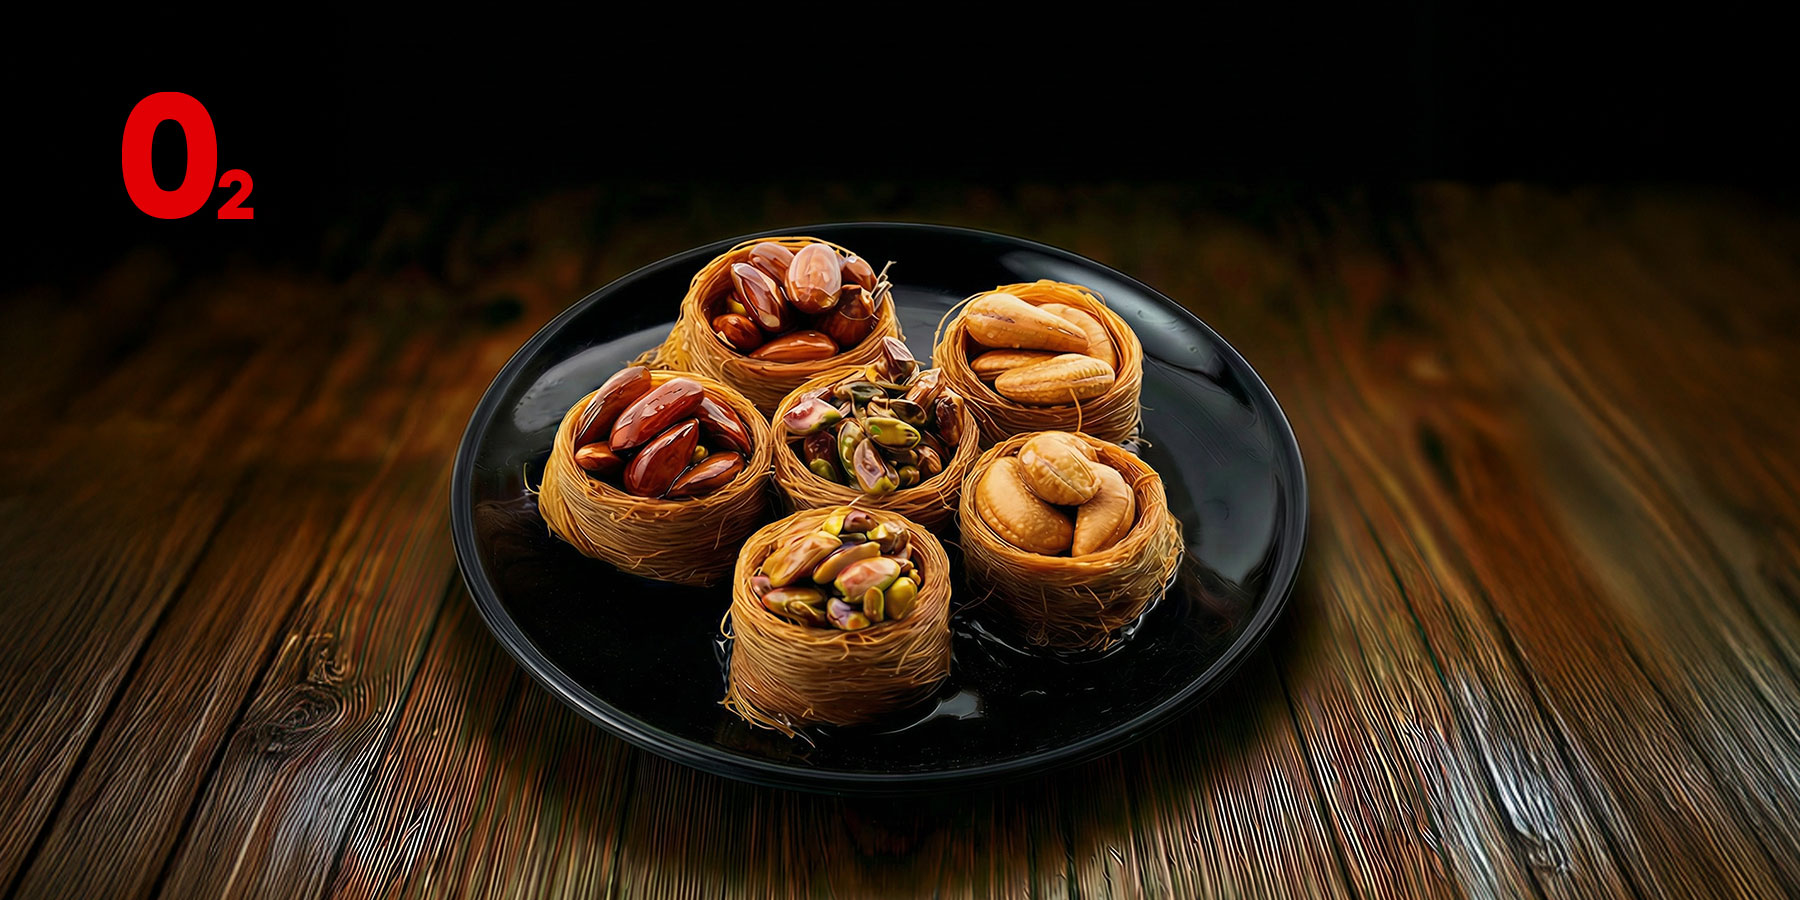
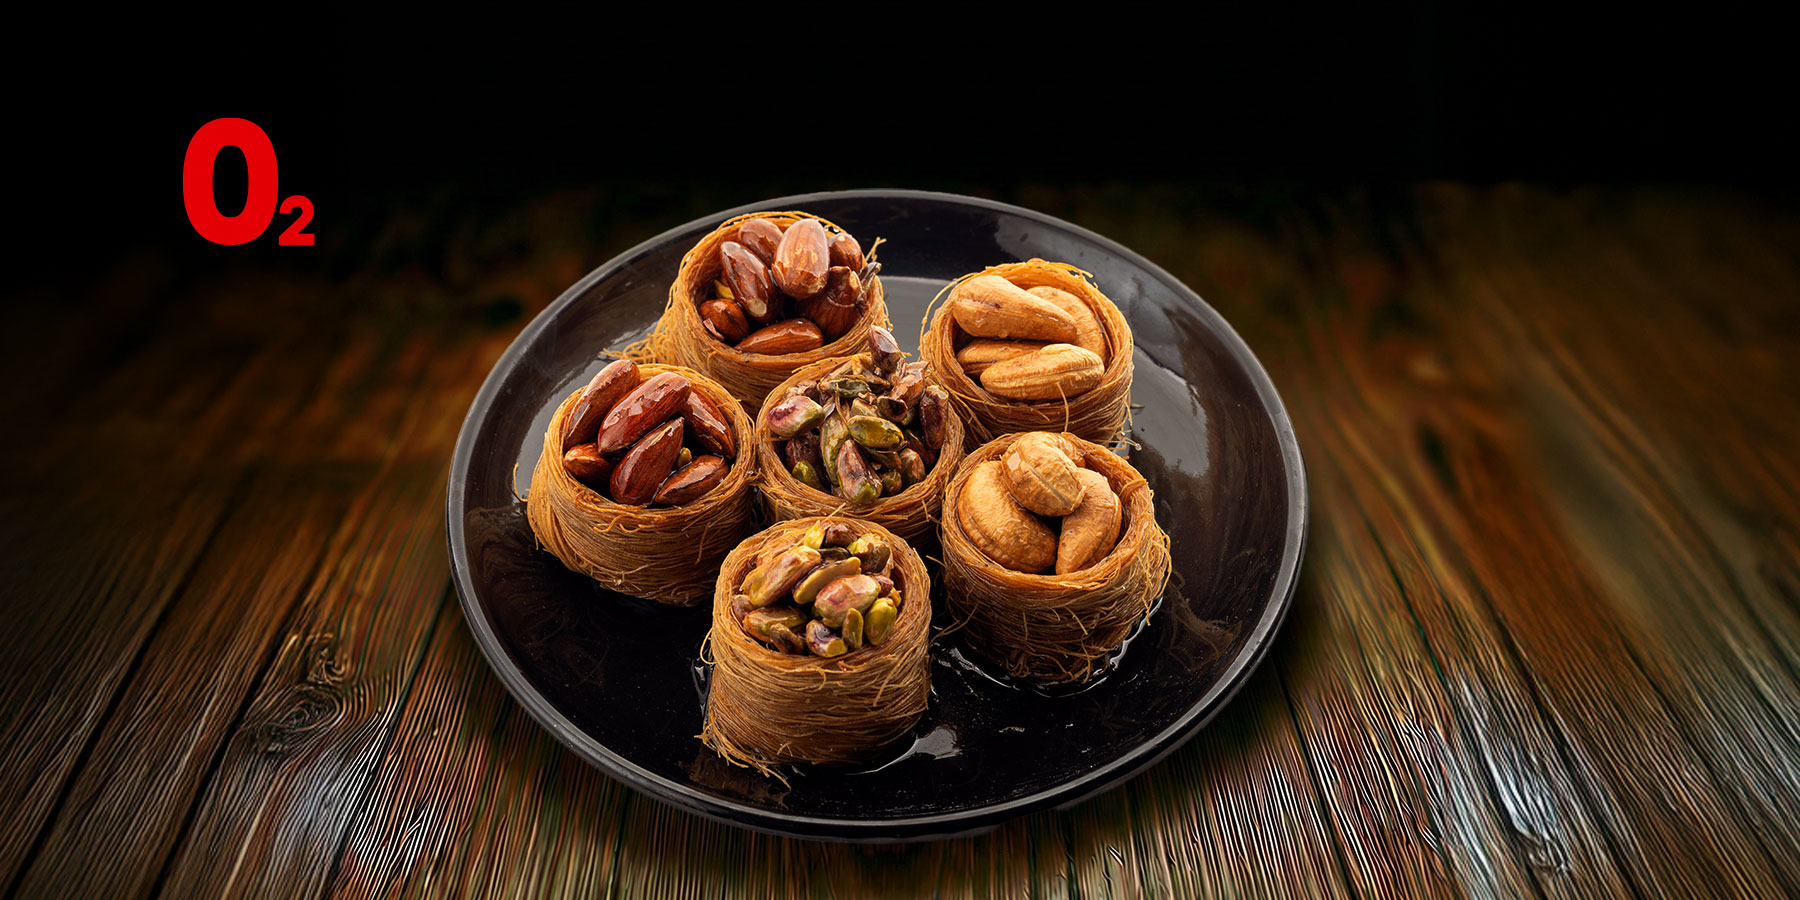
Final Update O2 menu

Changed region(s): [[0.2489, 0.1867, 0.7467, 0.9333], [0.0622, 0.0933, 0.1867, 0.28], [0.0, 0.7778, 0.0311, 0.9022]]

diff --git a/index.html b/index.html
@@ -1290,34 +1290,32 @@
             {
               name: "بيتا شاورما",
               price: 10,
-              image: "./img/Shawarma-section/5O1A7165 copy.jpg",
+              image: "./img/Shawarma-section/54.jpg",
             },
             {
               name: "شاورما عادي",
               price: 15,
-              image: "./img/Shawarma-section/48.jpg",
+              image: "./img/Shawarma-section/50.jpg",
             },
             {
               name: "فرشوحه دبل",
               price: 17,
-              image: "./img/Shawarma-section/5O1A7108 copy.jpg",
+              image: "./img/Shawarma-section/49.jpg",
             },
             {
               name: "فرشوحه دبل لحمة",
               price: 23,
-              image: "./img/Shawarma-section/5O1A7124 copy.jpg",
+              image: "./img/Shawarma-section/48.jpg",
             },
             {
               name: "فرشوحه دبل دبل",
               price: 25,
-              image:
-                "https://images.unsplash.com/photo-1542574271-7f3b92e6c821?w=800&q=80",
-              delivery: false,
+              image: "./img/Shawarma-section/48.jpg",
             },
             {
               name: "سوري",
               price: 35,
-              image: "./img/Shawarma-section/5O1A7153 copy.jpg",
+              image: "./img/Shawarma-section/53.jpg",
             },
             {
               name: "صفيحة",
@@ -1353,14 +1351,12 @@
             {
               name: "صحن شاورما كبير",
               price: 30,
-              image:
-                "https://images.unsplash.com/photo-1639024471283-03518883512d?w=800&q=80",
+              image: "./img/Shawarma-section/14.jpg",
             },
             {
               name: "صحن شاورما صغير",
               price: 20,
-              image:
-                "https://images.unsplash.com/photo-1623855244529-e59ca43af2ac?w=800&q=80",
+              image: "./img/Shawarma-section/13.jpg",
             },
           ],
         },
@@ -1377,7 +1373,7 @@
               name: "كاليزوني خضار",
               price: 15,
               desc: "فليفلة - بصل - ذرة - مشروم - زيتون",
-              image: "./img/Italian-section/36.jpg",
+              image: "./img/Italian-section/32.jpg",
             },
             {
               name: "بيتزا مكسيكي دجاج",
@@ -1419,8 +1415,7 @@
             {
               name: "صوص إضافي",
               price: 3,
-              image:
-                "https://images.unsplash.com/photo-1472476443507-c7a5948772fc?w=800&q=80",
+              image: "./img/Italian-section/7.jpg",
             },
           ],
         },
@@ -1475,79 +1470,91 @@
               image: "./img/Oriental-Sweets-Section/25.jpg",
             },
             {
-              name: "بسبوسة بالقشطة",
-              pricePerKg: 25,
-              image:
-                "https://images.unsplash.com/photo-1602351447937-745cb720612f?w=800&q=80",
+              name: "معكوفة لوز",
+              pricePerKg: 35,
+              image: "./img/Oriental-Sweets-Section/6.jpg",
+            },
+            {
+              name: "سرة",
+              pricePerKg: 35,
+              image: "./img/Oriental-Sweets-Section/2.jpg",
+            },
+
+            {
+              name: "معكوفة عين جمل",
+              pricePerKg: 35,
+              image: "./img/Oriental-Sweets-Section/26.jpg",
+            },
+
+            {
+              name: "وربات",
+              pricePerKg: 35,
+              image: "./img/Oriental-Sweets-Section/2.jpg",
             },
             {
               name: "كلاج",
               pricePerKg: 30,
-              image: "./img/Oriental-Sweets-Section/5O1A6669 copy.jpg",
+              image: "./img/Oriental-Sweets-Section/3.1.jpg",
             },
             {
               name: "عش البلبل",
               pricePerKg: 35,
-              image:
-                "https://images.unsplash.com/photo-1612309485932-8cca7c1d7325?w=800&q=80",
+              image: "./img/Oriental-Sweets-Section/7.jpg",
             },
             {
               name: "سنيورة",
               pricePerKg: 35,
-              image:
-                "https://images.unsplash.com/photo-1603532648955-039310d9ed75?w=800&q=80",
+              image: "./img/Oriental-Sweets-Section/8.jpg",
             },
             {
               name: "كلّ وشكر",
               pricePerKg: 35,
-              image:
-                "https://images.unsplash.com/photo-1574071318508-1cdbab80d002?w=800&q=80",
+              image: "./img/Oriental-Sweets-Section/5.jpg",
             },
             {
               name: "اسطنبولية",
               pricePerKg: 35,
               image:
                 "https://images.unsplash.com/photo-1608198399988-841b00f31d2b?w=800&q=80",
+              active: false,
             },
             {
               name: "كنافة عربية",
               pricePerKg: 40,
-              image:
-                "https://images.unsplash.com/photo-1623428187969-5da2dcea5ebf?w=800&q=80",
+              image: "./img/Oriental-Sweets-Section/17.jpeg",
             },
             {
               name: "بسبوسة نوتيلا",
               pricePerKg: 40,
-              image: "./img/Oriental-Sweets-Section/5K7A6205 copy.jpg",
-            },
-            {
-              name: "بقلاوة لوز",
-              pricePerKg: 48,
-              image:
-                "https://images.unsplash.com/photo-1592415499556-430747e5bf47?w=800&q=80",
-            },
-            {
-              name: "أساور لوز",
-              pricePerKg: 48,
-              image:
-                "https://images.unsplash.com/photo-1578985545062-69928b1d9587?w=800&q=80",
-            },
-            {
-              name: "أساور كاجو",
-              pricePerKg: 48,
-              image:
-                "https://images.unsplash.com/photo-1578985545062-69928b1d9587?w=800&q=80",
-            },
-            {
-              name: "نابلسية",
-              pricePerKg: 50,
-              image: "./img/Oriental-Sweets-Section/23.jpg",
+              image: "./img/Oriental-Sweets-Section/18.jpeg",
             },
             {
               name: "بقلاوة عين جمل",
               pricePerKg: 55,
               image: "./img/Oriental-Sweets-Section/41.jpg",
             },
+            {
+              name: "بقلاوة لوز",
+              pricePerKg: 48,
+              image: "./img/Oriental-Sweets-Section/9.jpg",
+            },
+            {
+              name: "بقلاوة حلبي",
+              pricePerKg: 100,
+              image: "./img/Oriental-Sweets-Section/10.jpg",
+            },
+            {
+              name: "أساور ",
+              pricePerKg: 48,
+              image: "./img/Oriental-Sweets-Section/19.jpeg",
+            },
+
+            {
+              name: "نابلسية",
+              pricePerKg: 50,
+              image: "./img/Oriental-Sweets-Section/23.jpg",
+            },
+
             {
               name: "كاسات مكسرات",
               pricePerKg: 80,
@@ -1558,19 +1565,15 @@
               pricePerKg: 100,
               image:
                 "https://images.unsplash.com/photo-1599599810769-bcde5a160d32?w=800&q=80",
-              delivery: false,
+              active: false,
             },
-            {
-              name: "بقلاوة حلبي",
-              pricePerKg: 100,
-              image:
-                "https://images.unsplash.com/photo-1519676867240-f03562e64548?w=800&q=80",
-            },
+
             {
               name: "بلورية حلبي",
               pricePerKg: 130,
               image:
                 "https://images.unsplash.com/photo-1571167530149-c6f274f6db8f?w=800&q=80",
+              active: false,
             },
             {
               name: "دولمة حلبي",
@@ -1654,7 +1657,7 @@
             {
               name: "كريب (نوتيلا / بيستاشيو / لوتس)",
               price: 30,
-              image: "./img/Bar-section/55.jpeg",
+              image: "./img/Bar-section/64.jpg",
             },
             {
               name: "كريب دبي",
@@ -1662,7 +1665,7 @@
               image: "./img/Bar-section/14.jpg",
             },
             {
-              name: "بان كيك ",
+              name: "بان كيك نوتيلا",
               price: 30,
               desc: "  نوتيلا / بيستاشيو / لوتس",
               image: "./img/Bar-section/13.jpg",
@@ -1670,8 +1673,7 @@
             {
               name: "رينجز",
               price: 25,
-              image:
-                "https://images.unsplash.com/photo-1626804475297-41608ea09aeb?w=800&q=80",
+              image: "./img/Bar-section/56.jpg",
             },
             {
               name: "لقيمات شوكولاتة",
@@ -1681,35 +1683,34 @@
             {
               name: "لقيمات (نوتيلا / بيستاشيو / لوتس)",
               price: 30,
-              image: "./img/Bar-section/5O1A6767 copy.jpg",
+              image: "./img/Bar-section/55.jpg",
             },
             {
               name: "بان كيك شوكولاتة",
               price: 15,
               image:
                 "https://images.unsplash.com/photo-1567620905732-2d1ec7ab7445?w=800&q=80",
+              active: false,
             },
             {
               name: "مولتن كيك",
               price: 25,
-              image:
-                "https://images.unsplash.com/photo-1578985545062-69928b1d9587?w=800&q=80",
+              image: "./img/Bar-section/37.jpg",
             },
             {
               name: "هوت كيك",
               price: 25,
-              image: "./img/Bar-section/37.jpg",
+              image: "./img/Bar-section/59.jpg",
             },
             {
               name: "براونيز",
               price: 25,
-              image: "./img/Bar-section/5O1A6855 copy.jpg",
+              image: "./img/Bar-section/38.jpg",
             },
             {
               name: "كنافة نويتلا",
               price: 15,
-              image:
-                "https://images.unsplash.com/photo-1519676867240-f03562e64548?w=800&q=80",
+              image: "./img/Bar-section/58.jpg",
             },
           ],
         },
@@ -1813,28 +1814,44 @@
           title: "🥗 السلطات",
           items: [
             {
-              name: "سلطة كبيرة",
-              price: 10,
-              image:
-                "https://images.unsplash.com/photo-1546069901-ba9599a7e63c?w=800&q=80",
+              name: "صوص بيكانتي",
+              price: 5,
+              image: "./img/salad/1.jpeg",
             },
             {
-              name: "سلطة صغيرة",
+              name: "صوص ثومية",
               price: 5,
-              image:
-                "https://images.unsplash.com/photo-1512621776951-a57141f2eefd?w=800&q=80",
+              image: "./img/salad/2.jpeg",
+            },
+            {
+              name: "سلطة تركية",
+              price: 5,
+              image: "./img/salad/4.jpeg",
+            },
+            {
+              name: "سلطة ملفوف بالمايونيز",
+              price: 5,
+              image: "./img/salad/3.jpeg",
+            },
+            {
+              name: "سلطة ذرة بالمايونيز",
+              price: 5,
+              image: "./img/salad/5.jpeg",
+            },
+            {
+              name: "سلطة كول سلو",
+              price: 5,
+              image: "./img/salad/6.jpeg",
             },
             {
               name: "بطاطا كبيرة",
               price: 10,
-              image:
-                "https://images.unsplash.com/photo-1598679253544-2c97992403ea?w=800&q=80",
+              image: "./img/salad/20.jpeg",
             },
             {
               name: "بطاطا صغيرة",
               price: 5,
-              image:
-                "https://images.unsplash.com/photo-1639024471283-03518883512d?w=800&q=80",
+              image: "./img/salad/20.jpeg",
             },
           ],
         },
